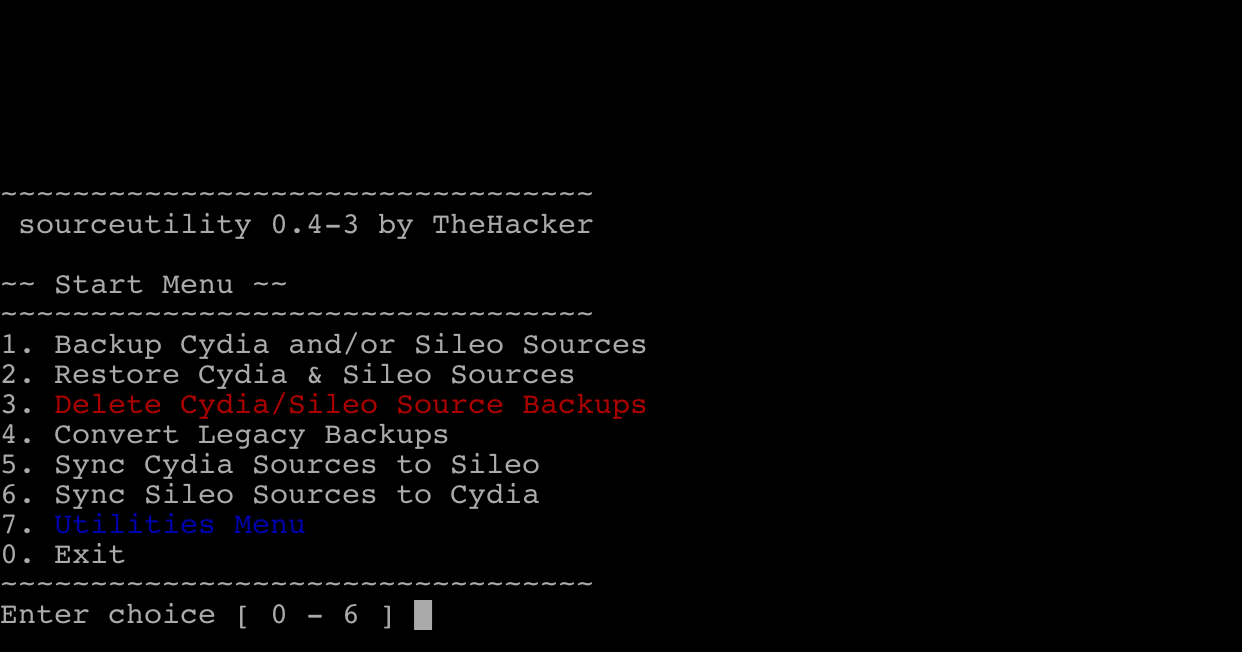
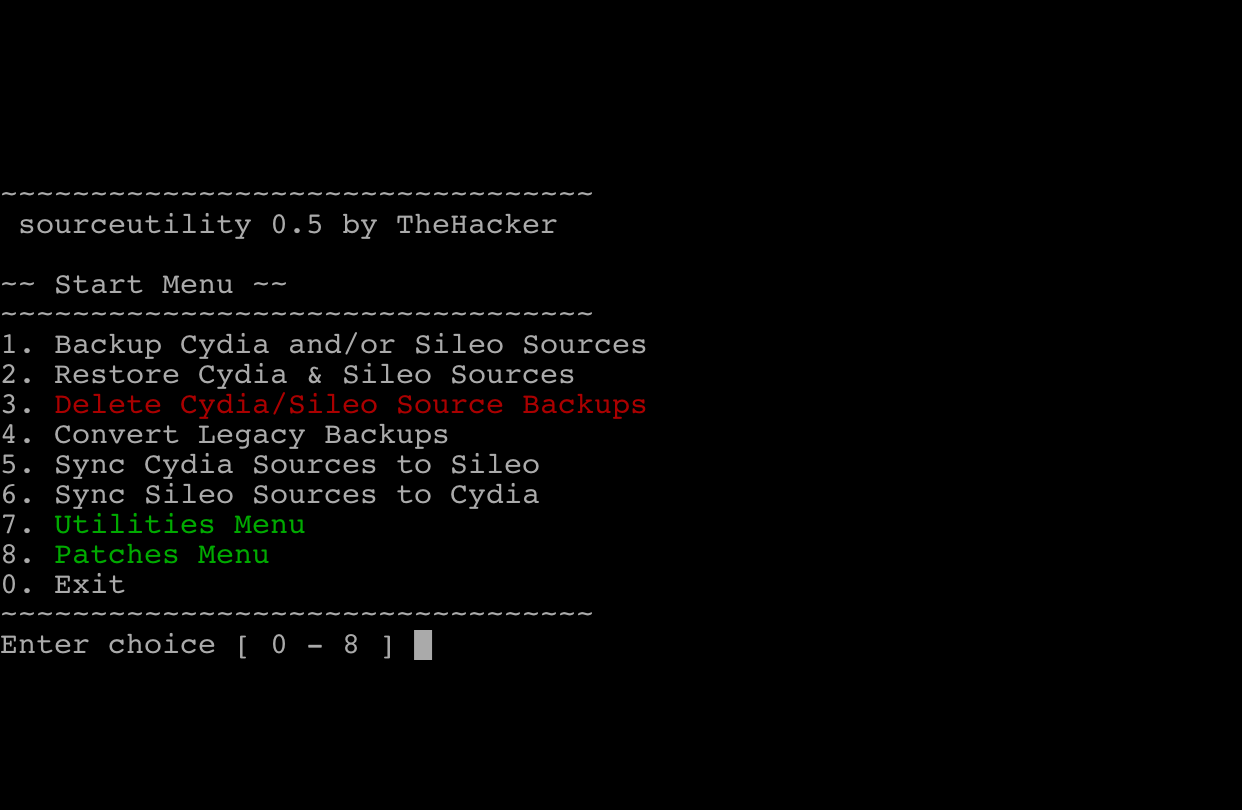
v0.5 of sourceutility

Changed region(s): [[0.0, 0.2147, 0.5201, 0.8589], [0.0, 0.8896, 0.4589, 0.9816]]

diff --git a/hacked-repo/depic/xyz.skylarmccauley.sourceutility/index.html b/hacked-repo/depic/xyz.skylarmccauley.sourceutility/index.html
@@ -38,17 +38,17 @@
     <ul>
       <img src="screenshots/menu.png">
       <img src="screenshots/menu_u.png">
-      <img src="screenshots/menu_k.png">
+      <img src="screenshots/menu_p.png">
     </ul>
     <ul>
         <li>
-        <a href="../../debs/xyz.skylarmccauley.sourceutility.deb">Download DEB (Does not download through Cydia)</a>
+        <a href="../../debs/xyz.skylarmccauley.sourceutility.deb">Download DEB (Does not download through Cydia or Sileo)</a>
         </li>
       </ul>
     <h2 id="compatibility">Compatibility</h2>
     <ul>
       <li>
-        <p>Supports iOS 9 - 12.1.2</p>
+        <p>Supports iOS 11 - 12.1.2</p>
       </li>
         <script>document.write(iOSVersion())</script>
     </ul>
@@ -58,7 +58,10 @@
         <p>findutils</p>
       </li>
       <li>
-        <p>firmware (>= 9.0)</p>
+        <p>firmware (>= 11.0)</p>
+      </li>
+      <li>
+        <p>curl</p>
       </li>
     </ul>
     <h2 id="conflicts">Conflicts</h2>
@@ -69,38 +72,35 @@
     </ul>
     <h2 id="in-this-version">In this version</h2>
     <ul> 
-        <h2>April 6, 2019</h2>
+        <h2>April 7, 2019</h2>
         <li>
-          <p>0.4-3</p><br>
+        <p>0.5</p><br>
+        <p>- Improved how the Cydia patching works after restoring a backup</p>
+        <p>- After restoring a backup, the user will be prompted to reinstall Cydia</p>
+        <p>- After reinstalling Cydia, the user will be prompted to run Diatrus's Cydia Patch from installsileo (installsileo not included)</p>
+        <p>- Now depends on curl for reinstalling Cydia (downloads from apt.bingner.com)</p>
+        <p>- Removed Kill Menu</p>
+        <p>- Added Patches Menu</p>
+        <p>- Patches Menu includes options such as Reinstalling Cydia, Killing Sileo, and running the Cydia Patch</p>
+        <p>- Changed firmware dependency to iOS 11 and above (this may be changed in a future update) </p>
+        </li>
+    </ul>
+    <h2 id="other-versions">Previous Releases</h2>
+    <ul>
+        <h2>April 5/6, 2019</h2>
+        <li>
+          <p>0.4-X</p><br>
           <p>- Added some small improvements to the menus</p>
           <p>- Added option to kill Cydia and Sileo</p>
           <p>- Sileo and Cydia are now killed when attempting to restore or make a backup</p>
-          
-        </li>
-        <h2>April 6, 2019</h2>
-        <li>
-          <p>0.4-2</p><br>
           <p>- Added a patch that fixes Cydia after a restore. (From Diatrus' Sileo Installer for unc0ver).</p>
-          
-        </li>
-        <h2>April 5, 2019</h2>
-        <li>
-          <p>0.4-1</p><br>
           <p>- After restoring a backup, users will be prompted to run installsileo to fix some small issues</p>
-          
-        </li>
-        <h2>April 5, 2019</h2>
-        <li>
-          <p>0.4</p><br>
           <p>- Rewrote how backups are made and restored. Old backups are now incompatible</p>
           <p>- Readded ability to restore Cydia sources</p>
           <p>- Now compatible with source lists installed to /etc/apt/sources.list.d/</p>
           <p>- All backups made with versions prior to v0.4 <strong>MUST</strong> be converted</p>
           <p>- General improvements to how some things work</p>
         </li>
-    </ul>
-    <h2 id="other-versions">Previous Releases</h2>
-    <ul>
 
         <h2>April 4, 2019</h2>
         <li>

diff --git a/hacked-repo/depic/com.cydia.packagename/index.html b/hacked-repo/depic/com.cydia.packagename/index.html
@@ -37,7 +37,7 @@
     </ul>
     <ul>
         <li>
-        <a href="../../debs/com.cydia.package.deb">Download DEB (Does not download through Cydia)</a>
+        <a href="../../debs/com.cydia.package.deb">Download DEB (Does not download through Cydia or Sileo)</a>
         </li>
       </ul>
     <h2 id="compatibility">Compatibility</h2>
@@ -50,7 +50,7 @@
         <script>document.write(iOSVersion())</script>
       </li>
     </ul>
-    <h2 id="dependencies">dependencies</h2>
+    <h2 id="dependencies">Dependencies</h2>
     <ul>
       <li>
         <p>findutils</p>
@@ -77,7 +77,7 @@
     <h2 id="other-versions">Previous Releases</h2>
     <ul>
       <li>
-        <p>01.0</p><br>
+        <p>1.0</p><br>
         <p>Initial Release</p>
         
       </li>

diff --git a/hacked-repo/depic/xyz.skylarmccauley.sourcebackup/index.html b/hacked-repo/depic/xyz.skylarmccauley.sourcebackup/index.html
@@ -34,7 +34,7 @@
     </ul>
     <ul>
         <li>
-        <a href="../../debs/xyz.skylarmccauley.sourcebackup.deb">Download DEB (Does not download through Cydia)</a>
+        <a href="../../debs/xyz.skylarmccauley.sourcebackup.deb">Download DEB (Does not download through Cydia or Sileo)</a>
         </li>
       </ul>
     <h2 id="compatibility">Compatibility</h2>

diff --git a/hacked-repo/depic/xyz.skylarmccauley.noregerts/index.html b/hacked-repo/depic/xyz.skylarmccauley.noregerts/index.html
@@ -33,7 +33,7 @@
     </ul>
     <ul>
         <li>
-        <a href="../../debs/xyz.skylarmccauley.noregerts.deb">Download DEB (Does not download through Cydia)</a>
+        <a href="../../debs/xyz.skylarmccauley.noregerts.deb">Download DEB (Does not download through Cydia or Sileo)</a>
         </li>
       </ul>
     <h2 id="compatibility">Compatibility</h2>
